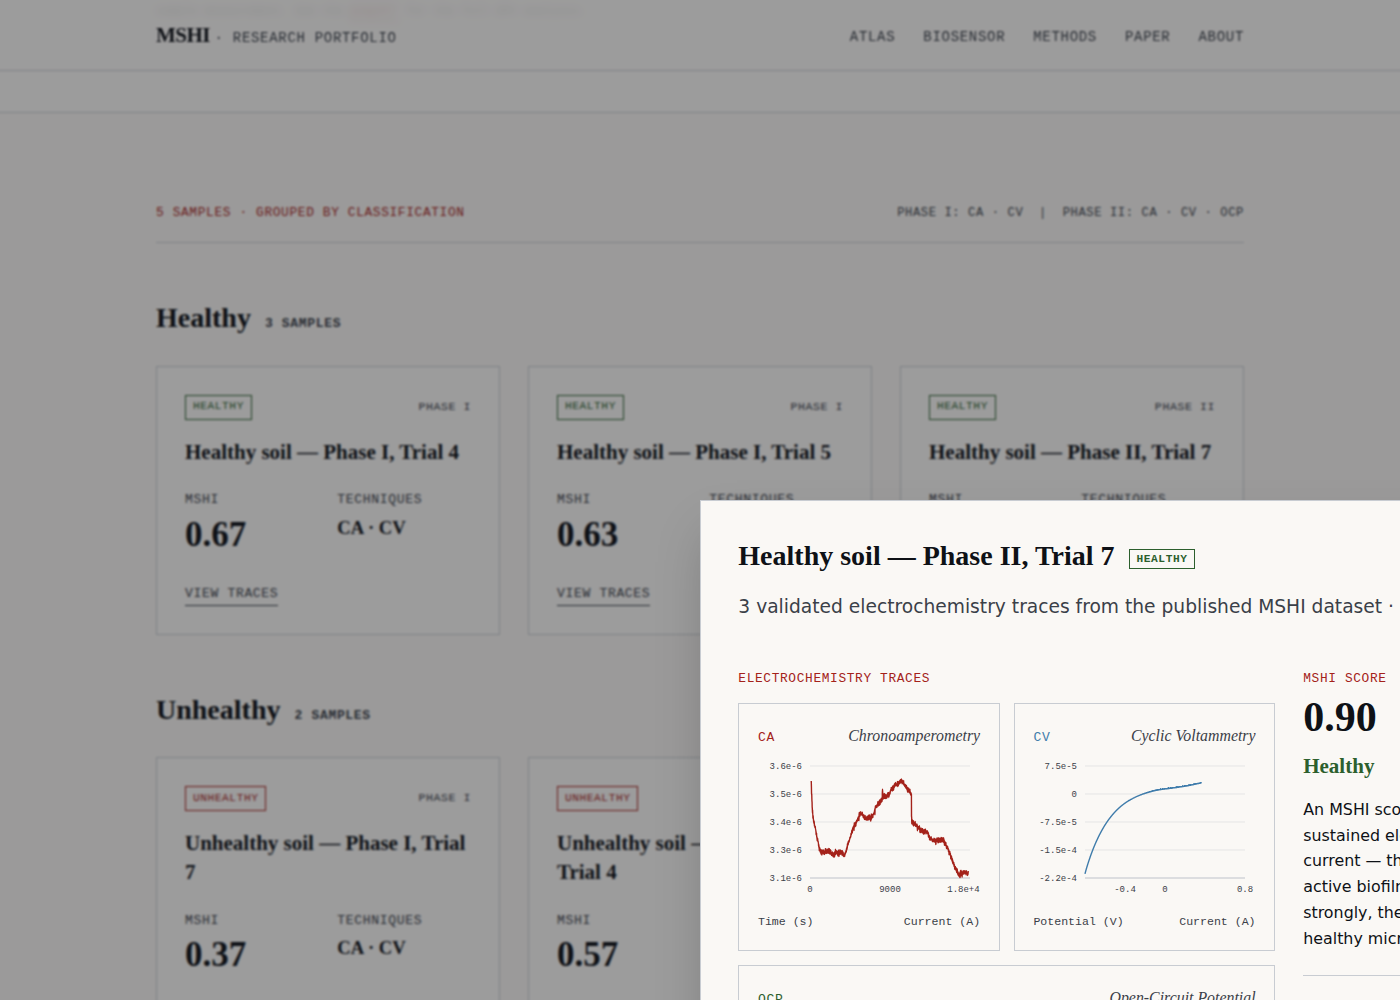
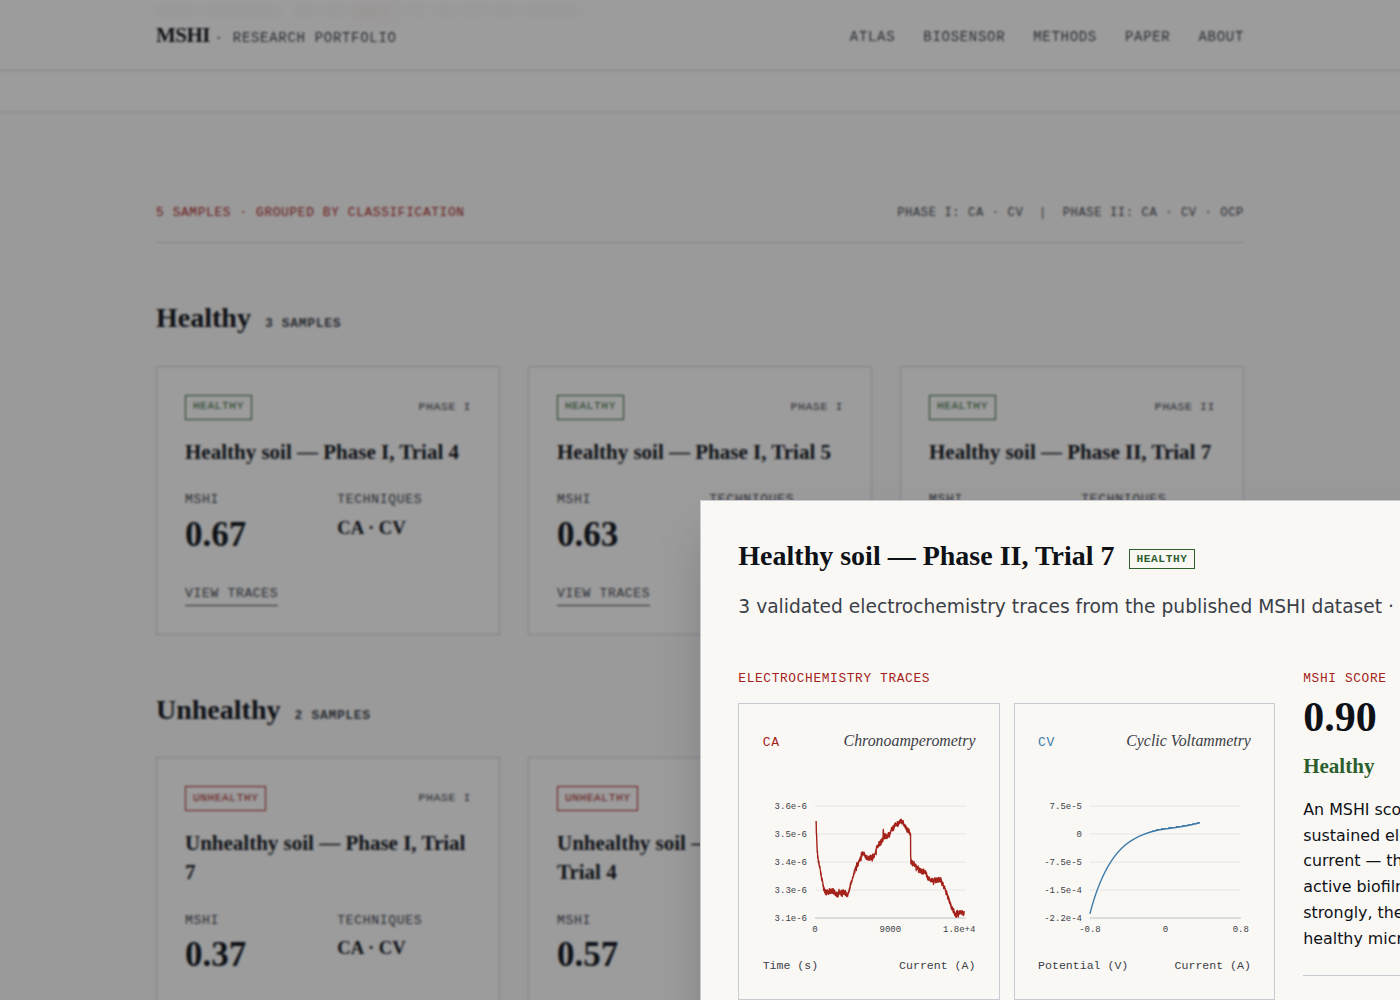
Biosensor: DPV as 4th uniform square in detail; roomier headers
Detail dialog (and home featured panel) now render a uniform grid of
CA/CV/OCP plus the digitized DPV reference as a fourth equal-size
square — no stretched OCP. Reserved header height keeps charts aligned
when a long name wraps; widened code↔name spacing. The DPV square is
tagged "· ref" and the note clarifies it is the shared digitized
published reference, not that sample's measurement (corpus has no
per-sample DPV; none fabricated). Phase II → 2×2 CA·CV·OCP·DPV;
Phase I → CA·CV·DPV. Verifier updated; typecheck + build clean; GATE 2 PASS.

https://claude.ai/code/session_01UQKGRhhKJ1d7qNgTUnmpBb

diff --git a/src/components/biosensor/electrochem-traces.tsx b/src/components/biosensor/electrochem-traces.tsx
@@ -1,23 +1,29 @@
 'use client';
 
-import * as React from 'react';
 import {
   LineChart,
   Line,
   XAxis,
   YAxis,
   CartesianGrid,
+  ReferenceLine,
   ResponsiveContainer,
   Tooltip,
 } from 'recharts';
 import { cn } from '@/lib/utils';
-import type { BiosensorSample, TechniqueKey } from './sample-types';
+import type {
+  BiosensorSample,
+  DpvReference,
+  TechniqueKey,
+} from './sample-types';
 
 /**
- * Renders one Recharts line chart per technique the sample actually has.
- * Phase I samples have CA + CV; Phase II adds OCP. There is no DPV panel —
- * the corpus contains no DPV trace and none is fabricated. Empty slots are
- * never rendered: the grid only maps over real traces.
+ * One Recharts line chart per technique the sample actually has (Phase I:
+ * CA + CV; Phase II adds OCP), rendered as uniform squares. When a DPV
+ * reference is supplied it is appended as a fourth uniform square, clearly
+ * tagged as a digitized published reference — it is NOT a per-sample
+ * measurement (the corpus has no per-sample dpv.txt and none is
+ * fabricated). All panels are the same size; none is stretched.
  */
 
 const TECHNIQUE_META: Record<
@@ -29,6 +35,8 @@ const TECHNIQUE_META: Record<
   ocp: { code: 'OCP', name: 'Open-Circuit Potential', color: '#2C5F2D' },
 };
 
+const DPV_COLOR = '#B85C00';
+
 function fmtNumber(v: number): string {
   if (v === 0) return '0';
   const abs = Math.abs(v);
@@ -36,112 +44,162 @@ function fmtNumber(v: number): string {
   return parseFloat(v.toPrecision(3)).toString();
 }
 
+interface Panel {
+  code: string;
+  name: string;
+  color: string;
+  data: { x: number; y: number }[];
+  xlabel: string;
+  ylabel: string;
+  reference?: boolean;
+  omczV?: number;
+}
+
+function ChartPanel({ panel }: { panel: Panel }) {
+  return (
+    <div className="flex h-full flex-col border border-rule bg-paper p-5">
+      <div className="flex min-h-[2.75rem] items-baseline justify-between gap-x-8">
+        <span
+          className="font-mono text-[0.7rem] uppercase tracking-meta"
+          style={{ color: panel.color }}
+        >
+          {panel.code}
+        </span>
+        <span className="font-serif text-[0.85rem] italic text-ink-soft">
+          {panel.name}
+          {panel.reference ? (
+            <span className="ml-2 not-italic font-mono text-[0.55rem] uppercase tracking-meta text-ink-soft">
+              · ref
+            </span>
+          ) : null}
+        </span>
+      </div>
+      <div className="mt-4 h-[150px] w-full">
+        <ResponsiveContainer width="100%" height="100%">
+          <LineChart
+            data={panel.data}
+            margin={{ top: 8, right: 10, left: 4, bottom: 0 }}
+          >
+            <CartesianGrid stroke="#E5E5E5" vertical={false} />
+            <XAxis
+              dataKey="x"
+              type="number"
+              domain={['auto', 'auto']}
+              tickFormatter={fmtNumber}
+              tick={{
+                fill: '#3A4048',
+                fontSize: 9,
+                fontFamily: 'SF Mono, Menlo, monospace',
+              }}
+              tickLine={false}
+              axisLine={{ stroke: '#C8CCD2' }}
+              minTickGap={28}
+            />
+            <YAxis
+              tickFormatter={fmtNumber}
+              tick={{
+                fill: '#3A4048',
+                fontSize: 9,
+                fontFamily: 'SF Mono, Menlo, monospace',
+              }}
+              tickLine={false}
+              axisLine={false}
+              width={48}
+              domain={['auto', 'auto']}
+            />
+            {panel.omczV != null ? (
+              <ReferenceLine
+                x={panel.omczV}
+                stroke={panel.color}
+                strokeDasharray="3 3"
+                label={{
+                  value: `OmcZ ~ ${panel.omczV} V`,
+                  position: 'insideTopRight',
+                  fill: panel.color,
+                  fontSize: 9,
+                  fontFamily: 'SF Mono, Menlo, monospace',
+                }}
+              />
+            ) : null}
+            <Tooltip
+              contentStyle={{
+                background: '#FAF8F5',
+                border: '1px solid #C8CCD2',
+                borderRadius: 0,
+                fontFamily: 'SF Mono, monospace',
+                fontSize: 11,
+              }}
+              labelFormatter={(label) =>
+                `${panel.xlabel}: ${fmtNumber(Number(label))}`
+              }
+              formatter={(value: number | string) => [
+                fmtNumber(Number(value)),
+                panel.ylabel,
+              ]}
+            />
+            <Line
+              type="monotone"
+              dataKey="y"
+              stroke={panel.color}
+              strokeWidth={1.4}
+              dot={false}
+              isAnimationActive={false}
+            />
+          </LineChart>
+        </ResponsiveContainer>
+      </div>
+      <div className="mt-2 flex justify-between font-mono text-[0.62rem] text-ink-soft">
+        <span>{panel.xlabel}</span>
+        <span>{panel.ylabel}</span>
+      </div>
+    </div>
+  );
+}
+
 interface ElectrochemTracesProps {
   sample: Pick<BiosensorSample, 'techniques' | 'traces'>;
+  /** Optional digitized DPV reference, appended as a fourth uniform square. */
+  dpv?: DpvReference;
   className?: string;
 }
 
 export function ElectrochemTraces({
   sample,
+  dpv,
   className,
 }: ElectrochemTracesProps) {
-  const count = sample.techniques.length;
+  const panels: Panel[] = [];
+  for (const key of sample.techniques) {
+    const trace = sample.traces[key];
+    if (!trace) continue;
+    const meta = TECHNIQUE_META[key];
+    panels.push({
+      code: meta.code,
+      name: meta.name,
+      color: meta.color,
+      data: trace.x.map((xv, i) => ({ x: xv, y: trace.y[i] })),
+      xlabel: trace.xlabel,
+      ylabel: trace.ylabel,
+    });
+  }
+  if (dpv) {
+    panels.push({
+      code: 'DPV',
+      name: 'Differential Pulse Voltammetry',
+      color: DPV_COLOR,
+      data: dpv.x.map((xv, i) => ({ x: xv, y: dpv.y[i] })),
+      xlabel: dpv.xlabel,
+      ylabel: dpv.ylabel,
+      reference: true,
+      omczV: dpv.omcz_peak_v,
+    });
+  }
+
   return (
     <div className={cn('grid grid-cols-1 gap-3 sm:grid-cols-2', className)}>
-      {sample.techniques.map((key, idx) => {
-        const trace = sample.traces[key];
-        if (!trace) return null;
-        const meta = TECHNIQUE_META[key];
-        const data = trace.x.map((xv, i) => ({ x: xv, y: trace.y[i] }));
-        // An odd trailing panel spans both columns so there is never an
-        // empty grid cell (no grey box) and no lopsided orphan.
-        const spanFull = count % 2 === 1 && idx === count - 1;
-        return (
-          <div
-            key={key}
-            className={cn(
-              'flex flex-col border border-rule bg-paper p-4',
-              spanFull && 'sm:col-span-2',
-            )}
-          >
-            <div className="flex items-baseline justify-between">
-              <span
-                className="font-mono text-[0.7rem] uppercase tracking-meta"
-                style={{ color: meta.color }}
-              >
-                {meta.code}
-              </span>
-              <span className="font-serif text-[0.85rem] italic text-ink-soft">
-                {meta.name}
-              </span>
-            </div>
-            <div className="mt-2 h-[150px] w-full">
-              <ResponsiveContainer width="100%" height="100%">
-                <LineChart
-                  data={data}
-                  margin={{ top: 8, right: 10, left: 4, bottom: 0 }}
-                >
-                  <CartesianGrid stroke="#E5E5E5" vertical={false} />
-                  <XAxis
-                    dataKey="x"
-                    type="number"
-                    domain={['auto', 'auto']}
-                    tickFormatter={fmtNumber}
-                    tick={{
-                      fill: '#3A4048',
-                      fontSize: 9,
-                      fontFamily: 'SF Mono, Menlo, monospace',
-                    }}
-                    tickLine={false}
-                    axisLine={{ stroke: '#C8CCD2' }}
-                    minTickGap={28}
-                  />
-                  <YAxis
-                    tickFormatter={fmtNumber}
-                    tick={{
-                      fill: '#3A4048',
-                      fontSize: 9,
-                      fontFamily: 'SF Mono, Menlo, monospace',
-                    }}
-                    tickLine={false}
-                    axisLine={false}
-                    width={48}
-                    domain={['auto', 'auto']}
-                  />
-                  <Tooltip
-                    contentStyle={{
-                      background: '#FAF8F5',
-                      border: '1px solid #C8CCD2',
-                      borderRadius: 0,
-                      fontFamily: 'SF Mono, monospace',
-                      fontSize: 11,
-                    }}
-                    labelFormatter={(label) =>
-                      `${trace.xlabel}: ${fmtNumber(Number(label))}`
-                    }
-                    formatter={(value: number | string) => [
-                      fmtNumber(Number(value)),
-                      trace.ylabel,
-                    ]}
-                  />
-                  <Line
-                    type="monotone"
-                    dataKey="y"
-                    stroke={meta.color}
-                    strokeWidth={1.4}
-                    dot={false}
-                    isAnimationActive={false}
-                  />
-                </LineChart>
-              </ResponsiveContainer>
-            </div>
-            <div className="mt-1 flex justify-between font-mono text-[0.62rem] text-ink-soft">
-              <span>{trace.xlabel}</span>
-              <span>{trace.ylabel}</span>
-            </div>
-          </div>
-        );
-      })}
+      {panels.map((panel) => (
+        <ChartPanel key={panel.code} panel={panel} />
+      ))}
     </div>
   );
 }

diff --git a/src/components/biosensor/sample-card.tsx b/src/components/biosensor/sample-card.tsx
@@ -13,6 +13,7 @@ import { ElectrochemTraces } from './electrochem-traces';
 import type {
   BiosensorSample,
   Classification,
+  DpvReference,
   TechniqueKey,
 } from './sample-types';
 import { cn } from '@/lib/utils';
@@ -45,9 +46,10 @@ function interpretScore(s: BiosensorSample): string {
 
 interface SampleCardProps {
   sample: BiosensorSample;
+  dpv?: DpvReference;
 }
 
-export function SampleCard({ sample }: SampleCardProps) {
+export function SampleCard({ sample, dpv }: SampleCardProps) {
   const cls = CLASS_META[sample.classification];
 
   return (
@@ -122,12 +124,15 @@ export function SampleCard({ sample }: SampleCardProps) {
           <div className="md:col-span-8">
             <p className="meta-label">Electrochemistry traces</p>
             <div className="mt-3">
-              <ElectrochemTraces sample={sample} />
+              <ElectrochemTraces sample={sample} dpv={dpv} />
             </div>
             <p className="mt-3 font-mono text-[0.65rem] leading-relaxed text-ink-soft">
-              Raw CHI660E exports, downsampled by even stride for fast load;
-              trace shape preserved. CA omits the initial charging transient
-              (instrument noise). Raw files below are verbatim and complete.
+              CA / CV / OCP are this sample&rsquo;s measured exports,
+              downsampled by even stride (shape preserved); CA omits the
+              initial charging transient (instrument noise). The DPV square
+              is the shared digitized published reference, not this
+              sample&rsquo;s measurement. Raw files below are verbatim and
+              complete.
             </p>
           </div>
 

diff --git a/src/components/home/section-biosensor.tsx b/src/components/home/section-biosensor.tsx
@@ -3,7 +3,7 @@ import { ArrowRight } from 'lucide-react';
 import { Reveal } from '@/components/site/reveal';
 import { SectionLabel } from '@/components/site/section-label';
 import { ElectrochemTraces } from '@/components/biosensor/electrochem-traces';
-import { loadBiosensorDataset } from '@/lib/biosensor-data';
+import { loadBiosensorDataset, loadDpvReference } from '@/lib/biosensor-data';
 
 const CLASS_COLOR: Record<string, string> = {
   healthy: 'text-bedrock-good',
@@ -18,8 +18,9 @@ const CLASS_LABEL: Record<string, string> = {
 
 export function SectionBiosensor() {
   const { samples } = loadBiosensorDataset();
+  const dpv = loadDpvReference();
   // Feature the richest validated run: a healthy Phase II sample carries
-  // all three techniques (CA + CV + OCP).
+  // all three techniques (CA + CV + OCP); DPV adds the fourth square.
   const featured =
     samples.find(
       (s) => s.classification === 'healthy' && s.techniques.length === 3,
@@ -67,7 +68,7 @@ export function SectionBiosensor() {
           {/* Center: real trace panel */}
           <Reveal className="md:col-span-5" delayMs={140}>
             <div className="border border-rule bg-paper p-2">
-              <ElectrochemTraces sample={featured} />
+              <ElectrochemTraces sample={featured} dpv={dpv} />
             </div>
             <p className="mt-3 text-[0.78rem] italic text-ink-soft">
               {featured.name} — a validated run from the published dataset.

diff --git a/src/app/biosensor/page.tsx b/src/app/biosensor/page.tsx
@@ -133,7 +133,7 @@ export default function BiosensorPage() {
               </h2>
               <div className="mt-5 grid gap-6 md:grid-cols-2 lg:grid-cols-3">
                 {group.items.map((sample) => (
-                  <SampleCard key={sample.id} sample={sample} />
+                  <SampleCard key={sample.id} sample={sample} dpv={dpv} />
                 ))}
               </div>
             </div>

diff --git a/COMMIT_NOTES.md b/COMMIT_NOTES.md
@@ -29,6 +29,16 @@ Researcher feedback on the section, addressed in one follow-up commit:
 typecheck + build clean; `verify-biosensor-gallery.mjs` extended with
 DPV / grey-box / CA-trim regression checks — GATE 2 still PASS.
 
+**Round 2.** Per follow-up: the digitized DPV is now a fourth uniform
+square inside every sample detail dialog (and the home featured panel)
+alongside CA/CV/OCP — no stretched/extended OCP. All panels are equal
+size with a reserved header height so charts align even when a name
+wraps; header code↔name spacing widened. The DPV square is tagged
+"· ref" and the dialog note states it is the shared digitized published
+reference, not that sample's measurement (corpus still has no per-sample
+DPV; none fabricated). Phase II → CA·CV·OCP·DPV (2×2); Phase I →
+CA·CV·DPV. Verifier updated; GATE 2 PASS.
+
 ## What shipped
 
 **Phase 0 — verify real data (PASS).** Pulled `biosensor_samples/` from
